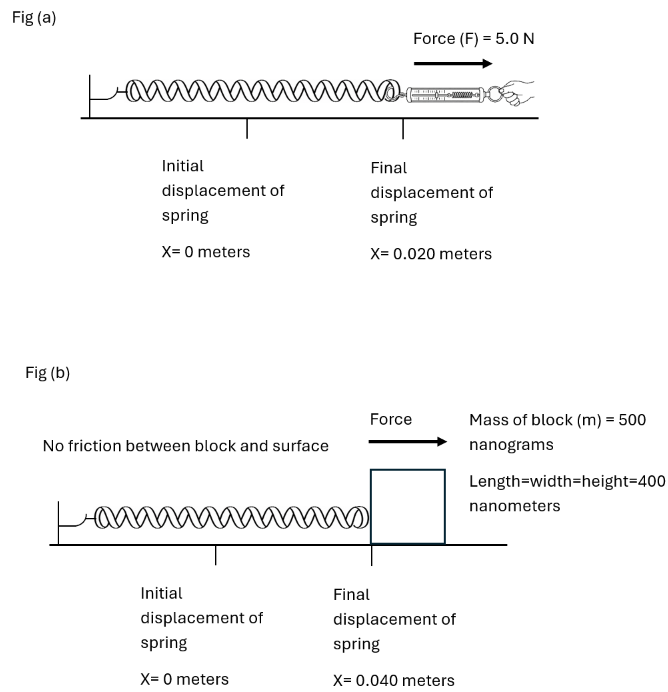
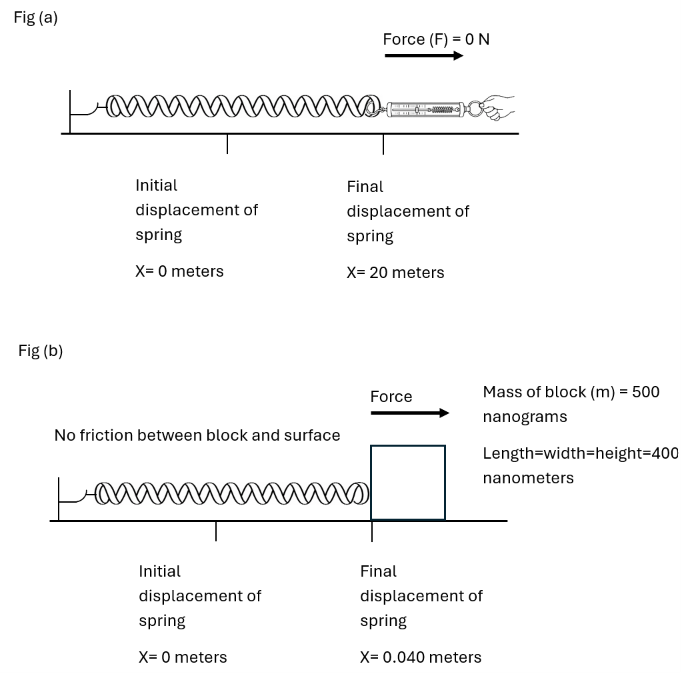
completed editing files

diff --git a/Problems/Text/Problem_5_Obvious_Q.md b/Problems/Text/Problem_5_Obvious_Q.md
@@ -1,1 +1,1 @@
-An ideal spring is placed horizontally on a frictionless surface with its left end stationary. To find out the force constant, a spring balance is used and a force of 5.0 N creates a displacement (x) of 0.020 meters. The force required is also proportional to the displacement of the spring. The spring balance is replaced and a block of mass (m) = 0.40 kg is  pulled to the right to a distance of 0.040 meter and is released which causes it to oscillate. Calculate the force constant of the spring, angular frequency, and frequency of the oscillation.
+Two blocks are moving in opposite direction towards each other in a linear track with no friction. Block A is on the left and is moving to the right. The mass of block A (m$_a$) is 100 nanograms and length=width=height=200nm, and velocity (va1) before collision is 0 m/s. Block B is on the right and is moving to the left. The mass of block (m$_b$) is 200 nanograms and length=width=height=400nm, and velocity (vb1) before collision is 100m/s and is moving to the right. After the collision, block B moves to the right with a velocity (vb2) of 10 km/s. Calculate the final velocity of block A (va2). 

diff --git a/Problems/Text/Problem_6_Regular_Q.md b/Problems/Text/Problem_6_Regular_Q.md
@@ -1,1 +1,1 @@
-An ideal spring is placed horizontally on a frictionless surface with its left end stationary. To find out the force constant, a spring balance is used and a force of 5.0 N creates a displacement (x) of 0.020 meters. The force required is also proportional to the displacement of the spring. The spring balance is replaced and a block of mass (m) = 500 nanograms, and length=height=width=400 nanometers is  pulled to the right to a distance of 0.040 meter and is released which causes it to oscillate. Calculate the force constant of the spring, angular frequency, and frequency of the oscillation.
+An ideal spring is placed horizontally on a frictionless surface with its left end stationary. To find out the force constant, a spring balance is used and a force of 5.0 N creates a displacement (x) of 0.020 meters. The force required is also proportional to the displacement of the spring. The spring balance is replaced and a block of mass (m) = 0.40 kg is  pulled to the right to a distance of 0.040 meter and is released which causes it to oscillate. Calculate the force constant of the spring, angular frequency, and frequency of the oscillation.

diff --git a/Problems/Text/Problem_6_non_obvious_Q.md b/Problems/Text/Problem_6_non_obvious_Q.md
@@ -1,1 +1,1 @@
-An ideal spring is placed horizontally on a frictionless surface with its left end stationary. To find out the force constant, a spring balance is used and a force of 0 N creates a displacement (x) of 20  meters. The force required is proportional to the distance. The spring balance is replaced and a block of mass (m) = 500 nanograms, and length=height=width=400 nanometers is  pulled to the right to a distance of 0.040 meter and is released which causes it to oscillate. Calculate the force constant of the spring, angular frequency, and frequency of the oscillation.
+An ideal spring is placed horizontally on a frictionless surface with its left end stationary. To find out the force constant, a spring balance is used and a force of 5.0 N creates a displacement (x) of 0.020  meters. The force required is proportional to the distance. The spring balance is replaced and a block of mass (m) = 500 nanograms, and length=height=width=400 nanometers is  pulled to the right to a distance of 0.040 meters and is released which causes it to oscillate. Calculate the force constant of the spring, angular frequency, and frequency of the oscillation.

diff --git a/Problems/Text/Problem_5_non_obvious_Q.md b/Problems/Text/Problem_5_non_obvious_Q.md
@@ -1,1 +1,1 @@
-Two blocks are moving in opposite directions in a linear track with no friction. Block A is on the left and is moving to the right. The mass of block A (m$_a$) is 100 nanograms and length=width=height=200nm, and velocity (va1) before collision is 0 m/s. Block B is on the right and is moving to the right. The mass of block (m$_b$) is 200 nanograms and length=width=height=400nm, and velocity (vb1) before collision is 100 m/s. After the collision, block B moves to the right with a velocity (vb2) of  10 km/s. Calculate the final velocity of block A (va2).
+Two blocks are moving in opposite direction towards each other in a linear track with no friction. Block A is on the left and is moving to the right. The mass of block A (m$_a$) is 100 nanograms and length=width=height=200nm, and velocity (va1) before collision is 1.0 m/s. Block B is on the right and is moving to the left. The mass of block (m$_b$) is 200 nanograms and length=width=height=400nm, and velocity (vb1) before collision is -2.0 m/s. After the collision, block B moves to the right with a velocity (vb2) of 1.0 m/s. Calculate the final velocity of block A (va2). 

diff --git a/Problems/Text/Problem_5_Regular_Q.md b/Problems/Text/Problem_5_Regular_Q.md
@@ -1,1 +1,1 @@
-Two blocks are moving in opposite direction towards each other in a linear track with no friction. Block A is on the left and is moving to the right. The mass of block A (m$_a$) is 100 nanograms and length=width=height=200nm, and velocity (va1) before collision is 1.0 m/s. Block B is on the right and is moving to the left. The mass of block (m$_b$) is 200 nanograms and length=width=height=400nm, and velocity (vb1) before collision is -2.0 m/s. After the collision, block B moves to the right with a velocity (vb2) of 1.0 m/s. Calculate the final velocity of block A (va2). 
+Two blocks are moving in opposite direction towards each other in a linear track with no friction. Block A is on the left and is moving to the right. The mass of block A (m$_a$) is 0.50 kg, and velocity (va1) before collision is 1.0 m/s. Block B is on the right and is moving to the left. The mass of block (m$_b$) is 0.20 kg, and velocity (vb1) before collision is -2.0 m/s. After the collision, block B moves to the right with a velocity (vb2) of 1.0 m/s. Calculate the final velocity of block A (va2). 

diff --git a/Problems/Text/Problem_4_Obvious_Q.md b/Problems/Text/Problem_4_Obvious_Q.md
@@ -1,1 +1,1 @@
-Two blocks are moving in opposite direction towards each other in a linear track with no friction. Block A is on the left and is moving to the right. The mass of block A (m$_a$) is 0.50 kg and velocity (va1) before collision is 1.0 m/s. Block B is on the right and is moving to the left. The mass of block (m$_b$) is 0.20 kg and velocity (vb1) before collision is -2.0 m/s. After the collision, block B moves to the right with a velocity (vb2) of 1.0 m/s. Calculate the final velocity of block A (va2). 
+Consider a uniform circular motion with a highly elastic string. There is a body of mass (m) 10 nanograms and radius 100 nanometer tied to one end, the radius of the circle (R) is 5.0 meters and the speed of the object is 3.001 x 10$^8$  m/s. The motion is vertical and the acceleration due to gravity (g) at that location is 10.0 m/s$^2$. Calculate the tension in the string at the bottom of the circle.

diff --git a/Problems/Text/Problem_6_Obvious_Q.md b/Problems/Text/Problem_6_Obvious_Q.md
@@ -1,1 +1,1 @@
-A block of mass (m) 20.0 kg and a density (D) of 19.0 x 10$^3$ kg/m$^3$ is immersed in sea water using a cable and is at rest. The density of sea water (d) is 1.03 x 10$^3$ kg/m$^3$. The acceleration due to gravity (g) at that location is 10.0 m/s$^2$. Calculate the tension (T) in the cable.
+An ideal spring is placed horizontally on a frictionless surface with its left end stationary. To find out the force constant, a spring balance is used and a force of 0 N creates a displacement (x) of 20  meters. The force required is proportional to the distance. The spring balance is replaced and a block of mass (m) = 500 nanograms, and length=height=width=400 nanometers is  pulled to the right to a distance of 0.040 meters and is released which causes it to oscillate. Calculate the force constant of the spring, angular frequency, and frequency of the oscillation.

diff --git a/Problems/Text/Problem_8_Regular_Q.md b/Problems/Text/Problem_8_Regular_Q.md
@@ -1,1 +1,1 @@
-Planet A has a mass (M) of 6000 nanograms and a radius of 100 nanometers, and its moon has a mass (m) of 2.0 x 10$^{22}$ kg. The moon revolves around the planet in an elliptical path and the closest distance between the center of these two bodies (d) is 3.0 x 10$^9$ meters. Both of these bodies are spherically symmetric. Calculate the gravitational force between these two bodies on each other at this location.
+Planet A has a mass (M) of 6.0 x 10$^{24}$ kg and a radius of 6.0 x 10$^{6}$ meters, and its moon has a mass (m) of 2.0 x 10$^{22}$ kg. The moon revolves around the planet in an elliptical path and the closest distance between the center of these two bodies (d) is 3.0 x 10$^9$ meters. Both of these bodies are spherically symmetric. Calculate the gravitational force between these two bodies on each other at this location.

diff --git a/Problems/Text/Problem_8_non_obvious_Q.md b/Problems/Text/Problem_8_non_obvious_Q.md
@@ -1,1 +1,1 @@
-Planet A has a mass (M) of 6000 nanograms and a radius of 100 nanometers, and its moon has a mass (m) of 2.0 x 10$^{22}$ kg. The moon revolves around the planet in a path that is square in shape and the closest distance between the center of these two bodies (d) is 3.0 x 10$^9$ meters. Both of these bodies are spherically symmetric. Calculate the gravitational force between these two bodies on each other at this location. 
+Planet A has a mass (M) of 6000 nanograms and a radius of 100 meters, and its moon has a mass (m) of 2.0 x 10$^{22}$ kg. The moon revolves around the planet in an elliptical path and the closest distance between the center of these two bodies (d) is 3.0 x 10$^9$ meters. Both of these bodies are spherically symmetric. Calculate the gravitational force between these two bodies on each other at this location.

diff --git a/Problems/Text/Problem_4_non_obvious_Q.md b/Problems/Text/Problem_4_non_obvious_Q.md
@@ -1,1 +1,1 @@
-Consider a uniform circular motion with a highly elastic string. There is a body of mass (m) 10 nanograms and radius 100 nanometer tied to one end, the radius of the circle (R) is 5.0 meters and the speed of the object is 3.001 x 10$^8$  m/s. The motion is vertical and the acceleration due to gravity (g) at that location is 10.0 m/s$^2$. Calculate the tension in the string at the bottom of the circle.
+Consider a uniform circular motion with a highly elastic string. There is a body of mass (m) 10 nanograms and radius 100 nanometer tied to one end, the radius of the circle (R) is 5.0 meters and the speed of the object is 5 m/s. The motion is vertical and the acceleration due to gravity (g) at that location is 10.0 m/s$^2$. Calculate the tension in the string at the bottom of the circle.

diff --git a/Problems/Text/Problem_4_Regular_Q.md b/Problems/Text/Problem_4_Regular_Q.md
@@ -1,1 +1,1 @@
-Consider a uniform circular motion where a string neither stretches nor is loose. There is a body of mass (m) 10 nanograms and radius 100 nanometer tied to one end, the radius of the circle (R) is 5.0 meters and the speed of the object is 5.0 m/s. The motion is vertical and the acceleration due to gravity (g) at that location is 10.0 m/s$^2$. Calculate the tension in the string at the bottom of the circle.
+Consider a uniform circular motion where a string neither stretches nor is loose. There is a body of mass (m) 5.0 kg tied to one end, the radius of the circle (R) is 5.0 meters and the speed of the object is 5.0 m/s. The motion is vertical and the acceleration due to gravity (g) at that location is 10.0 m/s$^2$. Calculate the tension in the string at the bottom of the circle.

diff --git a/Problems/Text/Problem_7_Obvious_Q.md b/Problems/Text/Problem_7_Obvious_Q.md
@@ -1,1 +1,1 @@
-Planet A has a mass (M) of 6.0 x 10$^{24}$ kg and a radius of 6.0 x 10$^6$ m and its moon has a mass (m) of 2.0 x 10$^{22}$ kg. The moon revolves around the planet in an elliptical path and the closest distance between the center of these two bodies (d) is 3.0 x 10$^9$ meters. Both of these bodies are spherically symmetric. Calculate the gravitational force between these two bodies on each other at this location. 
+A block of mass (m)= 1000 nanograms, and length=width=height= 100 nanometers, and a density (D) of 1.0 x 10$^{9}$ kg/m$^3$ is immersed in sea water using a cable and is at rest. The density of sea water (d) is -1.03 x 10$^3$ kg/m$^3$. The acceleration due to gravity (g) at that location is 10 m/s$^2$ upward. Calculate the tension (T) in the cable.
